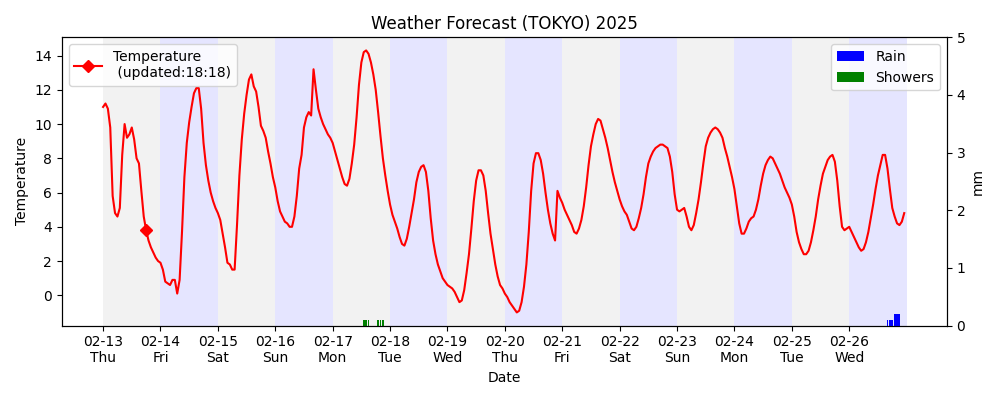
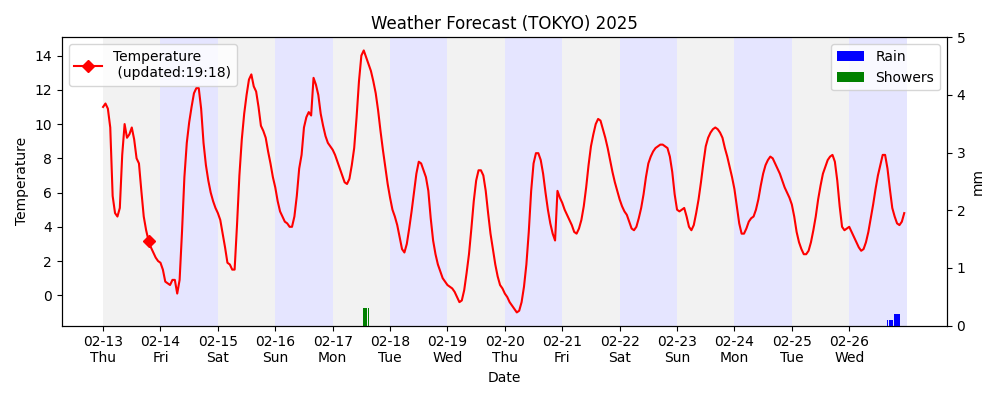
deploy: 2ec368545885f284a3dce238add73965d5ea2512

diff --git a/docs/src/dashboard/marketinfo.html b/docs/src/dashboard/marketinfo.html
@@ -14,16 +14,16 @@
     </style>
 </head>
 <body>
-    <h3> 概況 (更新： 02/13 07:15 ) </h3>
-    <p>この為替データは、2025年1月29日から2月12日までの期間をカバーしています。全体の動きを見ると、初期の高値から徐々に下落した後、再び上昇する傾向が見られます。このような動きに影響を与える要因はいくつか考えられます。
+    <h3> 概況 (更新： 02/13 19:11 ) </h3>
+    <p>この為替データは、2025年の1月末から2月中旬にかけての1つの通貨ペアの動きを示しています。総じて見ると、この期間にはいくつかの重要なトレンドや変動が見受けられます。
 
-初めのうちは、1月29日から2月2日までの期間で155円近辺の高値付近を維持しています。この期間には比較的少ないボラティリティが観察される日があり、一部のトレーダーにとっては市場が安定していると受け取られたかもしれません。
+まず、1月末から2月初旬にかけては、全体的に価格が高値圏で推移していることが確認できます。具体的に、1月30日から2月5日までの間で開いた価格と閉じた価格を比較すると、いくつかの大きな上下動が見られます。この間の高ボリュームの日（例えば、1月30日や2月6日）は、市場参加者が活発に取引を行っていることを示唆しており、重要な経済指標の発表や政策変更、あるいは地政学的なニュースなどが影響している可能性があります。例えば、中央銀行の政策会合の結果や、主要国の経済指標の発表があったと考えられます。
 
-しかし、2月5日から6日には152円台にまで下落しており、特に2月6日には取引量が増加しています。これは、市場参加者がこのタイミングで重要な経済指標や政治的な出来事に対して反応した可能性があります。実際のニュースが何であったかには注意を払うべきかもしれません。
+2月に入ってからは、価格がやや下振れし始めたことがわかります。特に、2月12日から13日にかけては急激な下落が見られ、開いた価格と閉じた価格の差（ギャップ）から、重要な市場の転機が訪れたことを示唆しているかもしれません。この時期には、金融政策に関するニュースや政治的な変動が影響を与えている可能性があります。
 
-その後は、再び回復傾向に入り、2月12日には154.401円でのクローズとなっています。この期間の後半にわたって、トレーダーの間で楽観的なセンチメントが広がりつつあるのかもしれません。これが短期的な反発であるか、長期的なトレンドとなるのかは今後のイベントや経済指標の結果に左右されるでしょう。
+また、2月9日から13日にかけての低ボリュームの日を考慮すると、投資家のリスク回避姿勢が一時的に高まっていた可能性も考えられます。このような状況では、さらに大きな動きを引き起こす触発要素が存在するかどうかを注視することが重要です。
 
-市場の動きには多くの要素が絡んでいるため、投資家が慎重に分析し、ニュースや経済指標の内容も加味しながら判断することが重要です。</p>
+概して、この期間中には複数の要因が複雑に絡み合いながら為替レートに影響を与えたことがうかがえます。これらのデータを分析する際には、別途市場全体の動きや関連する経済ニュースを考慮に入れることが不可欠です。</p>
 
     <p>Text generated from ChatGPT API.</p>
 

diff --git a/docs/src/dashboard/forecast_text.html b/docs/src/dashboard/forecast_text.html
@@ -6,9 +6,9 @@
 </head>
 <body>
     <h3>今日の天気 (02-13 Thu)</h3>
-    <p>2月13日の東京の天気は、午前中に一時的な雨があるものの、昼間は晴れます。日中は主に晴れ間が広がるでしょう。最高気温は約12℃から13℃程度です。
+    <p>2025年2月13日の東京の天気についてお伝えします。この日は曇りがちで、一部で雨が降る時間帯もありますが、日中は天気が回復して晴れる見込みです。最高気温は12.4℃、最低気温は2.8℃です。
 
-UVインデックスの最大値は4.6で、日中の紫外線は中程度です。日照時間は約9.9時間（35685.2秒）ですので、特に長い間外に出る予定がある場合には日傘を持参すると安心です。</p>
-    (更新：02/13 07:15)
+日照時間は約35685秒（9.9時間）あります。最大UVインデックスは4.65と予測されています。このUVインデックスでは、中程度の紫外線の強さがありますので、長時間屋外にいる場合は日傘を使用することをおすすめします。特にお昼頃は紫外線が強くなることがあるため、適度な対策が必要です。</p>
+    (更新：02/13 19:11)
 
 </html>
